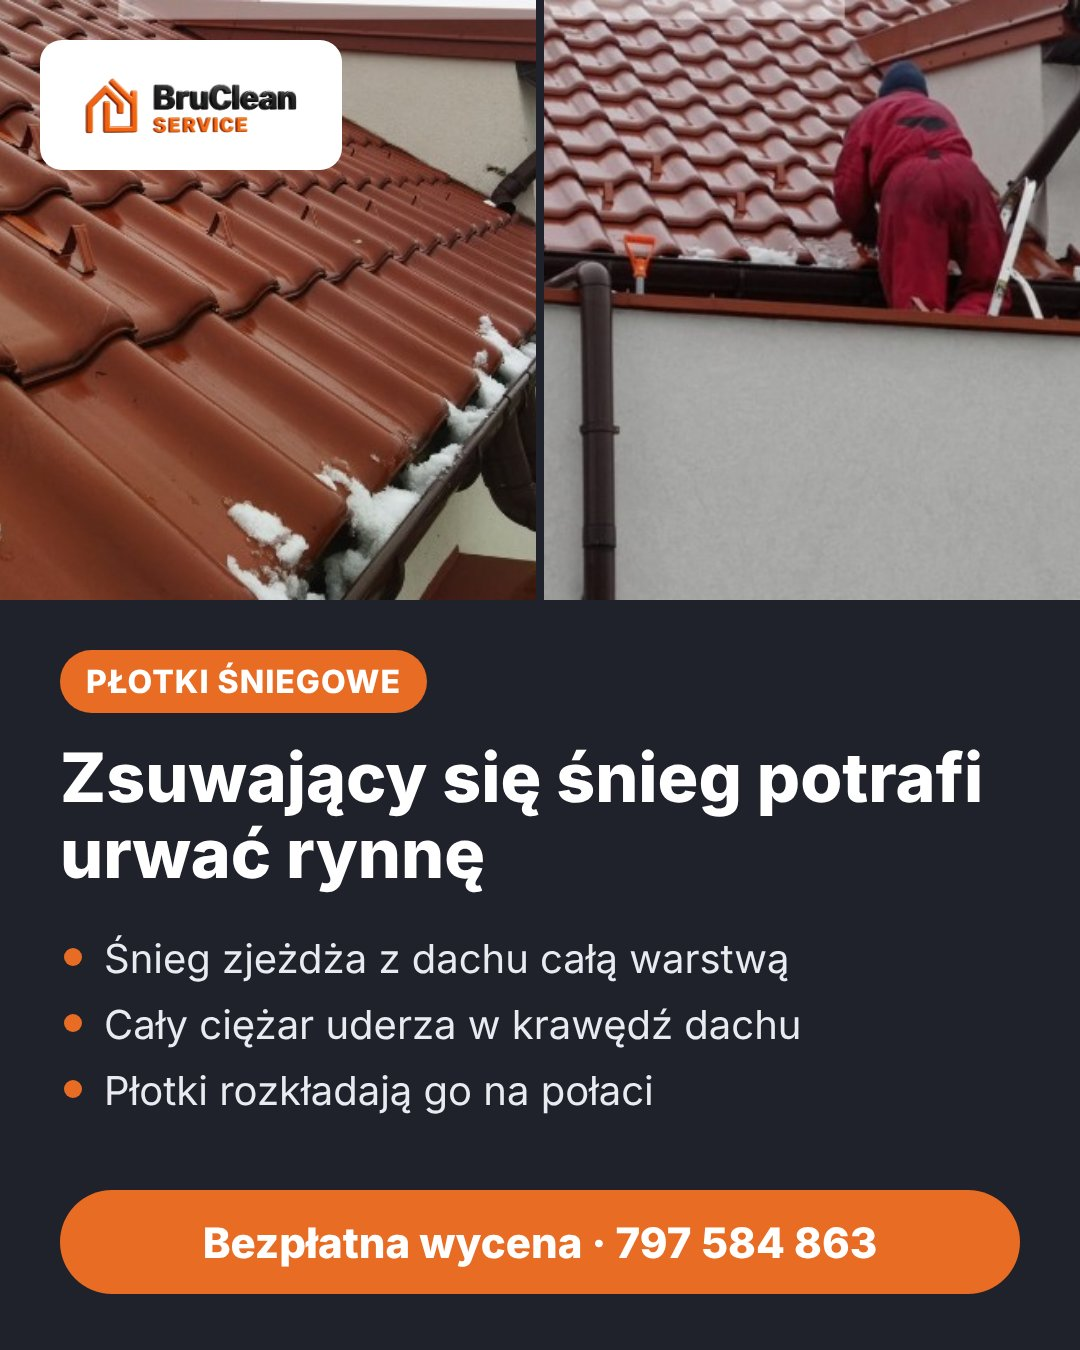
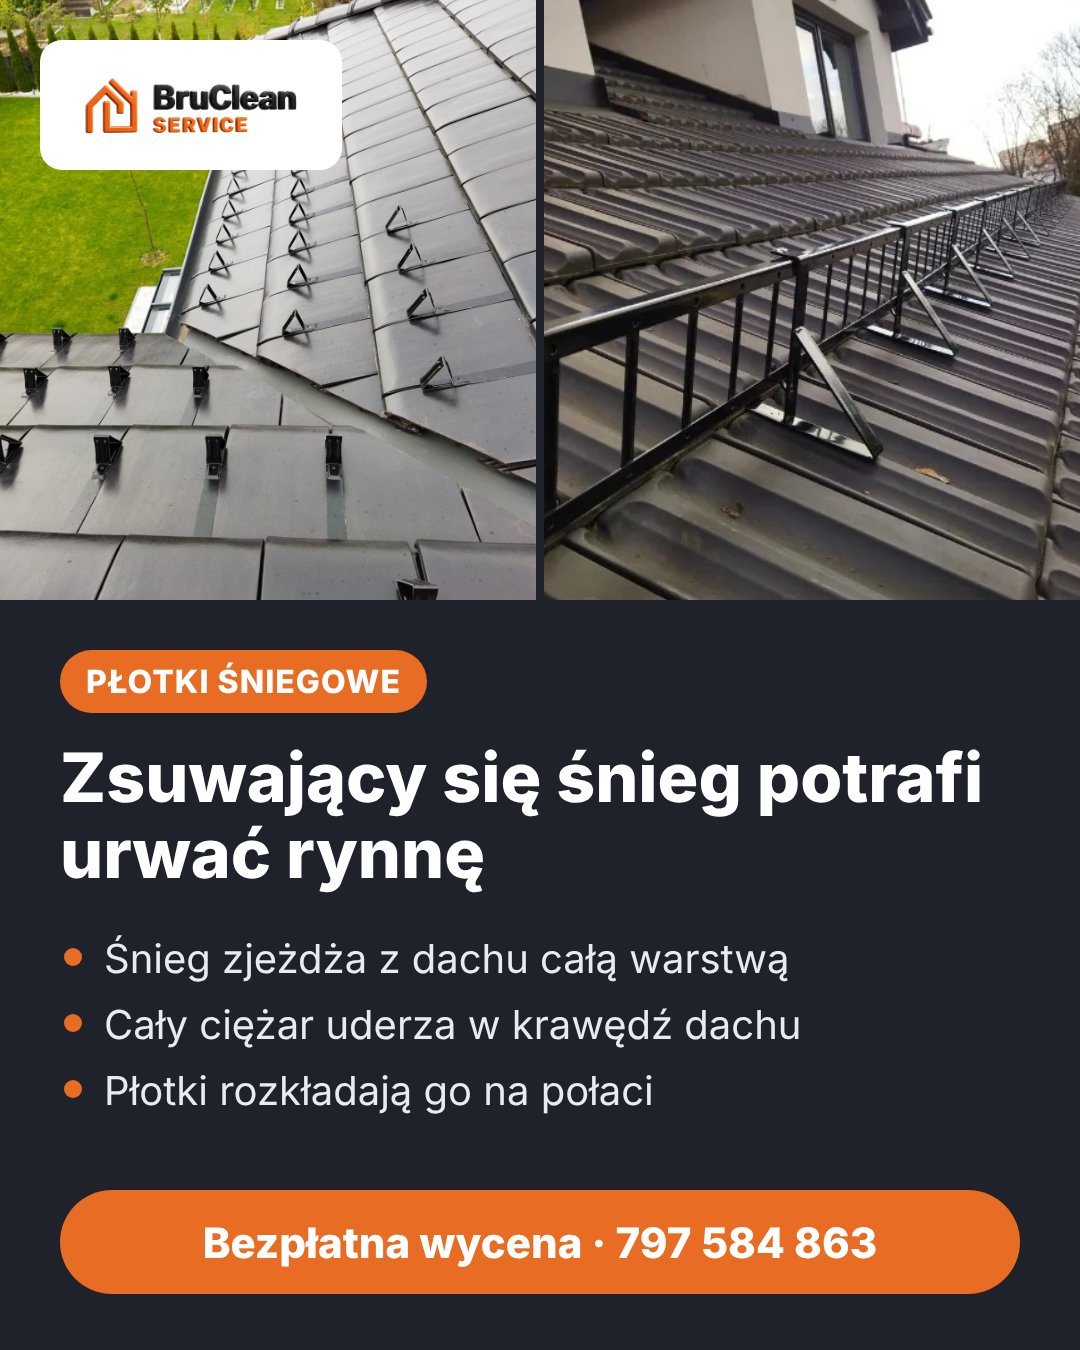
content: realizacje z lokalizacjami, zdjęcia płotków/odśnieżania, nowe zdjęcia w planie 11.2026
- index: 5 nowych realizacji w suwaku przed/po (Skawina, Wieliczka, Kraków x2, Myślenice)
- montaż płotków śniegowych: galeria 4 zdjęć (płotki kratowe + haki)
- plan-2026-11: zdjęcia właściciela zamiast powtórek, grafiki płotków na
  nowych zdjęciach, stories odśnieżanie/sople i kostka przed/po
- wszystkie nowe zdjęcia: LuxeClean -> BruClean Service, tablice zamazane

Claude-Session: https://claude.ai/code/session_01Hyfsw1uErvXBUjWgDrJjqe

diff --git a/index.html b/index.html
@@ -567,6 +567,11 @@ src="https://www.facebook.com/tr?id=1792681042143896&ev=PageView&noscript=1"
                             <button type="button" data-i="3" class="ba-item text-left bg-white border-2 border-gray-200 hover:border-brand-orange/50 rounded-2xl px-4 py-3 flex items-center justify-between gap-3"><span><span class="block font-bold text-brand-dark text-sm">Elewacja domu jednorodzinnego</span><span class="block text-xs text-brand-gray">Elewacja</span></span><i class="fa-solid fa-arrow-right-long text-brand-orange text-xs"></i></button>
                             <button type="button" data-i="4" class="ba-item text-left bg-white border-2 border-gray-200 hover:border-brand-orange/50 rounded-2xl px-4 py-3 flex items-center justify-between gap-3"><span><span class="block font-bold text-brand-dark text-sm">Elewacja budynku usługowego</span><span class="block text-xs text-brand-gray">Elewacja</span></span><i class="fa-solid fa-arrow-right-long text-brand-orange text-xs"></i></button>
                             <button type="button" data-i="5" class="ba-item text-left bg-white border-2 border-gray-200 hover:border-brand-orange/50 rounded-2xl px-4 py-3 flex items-center justify-between gap-3"><span><span class="block font-bold text-brand-dark text-sm">Rynny pod siatką</span><span class="block text-xs text-brand-gray">Rynny</span></span><i class="fa-solid fa-arrow-right-long text-brand-orange text-xs"></i></button>
+                            <button type="button" data-i="6" class="ba-item text-left bg-white border-2 border-gray-200 hover:border-brand-orange/50 rounded-2xl px-4 py-3 flex items-center justify-between gap-3"><span><span class="block font-bold text-brand-dark text-sm">Ścieżka z kostki granitowej przy firmie</span><span class="block text-xs text-brand-gray">Kostka brukowa · Skawina</span></span><i class="fa-solid fa-arrow-right-long text-brand-orange text-xs"></i></button>
+                            <button type="button" data-i="7" class="ba-item text-left bg-white border-2 border-gray-200 hover:border-brand-orange/50 rounded-2xl px-4 py-3 flex items-center justify-between gap-3"><span><span class="block font-bold text-brand-dark text-sm">Ścieżka i podest przy domu</span><span class="block text-xs text-brand-gray">Kostka brukowa · Wieliczka</span></span><i class="fa-solid fa-arrow-right-long text-brand-orange text-xs"></i></button>
+                            <button type="button" data-i="8" class="ba-item text-left bg-white border-2 border-gray-200 hover:border-brand-orange/50 rounded-2xl px-4 py-3 flex items-center justify-between gap-3"><span><span class="block font-bold text-brand-dark text-sm">Chodnik wzdłuż ogrodzenia</span><span class="block text-xs text-brand-gray">Kostka brukowa · Kraków</span></span><i class="fa-solid fa-arrow-right-long text-brand-orange text-xs"></i></button>
+                            <button type="button" data-i="9" class="ba-item text-left bg-white border-2 border-gray-200 hover:border-brand-orange/50 rounded-2xl px-4 py-3 flex items-center justify-between gap-3"><span><span class="block font-bold text-brand-dark text-sm">Elewacja budynku wielorodzinnego</span><span class="block text-xs text-brand-gray">Elewacja · Kraków</span></span><i class="fa-solid fa-arrow-right-long text-brand-orange text-xs"></i></button>
+                            <button type="button" data-i="10" class="ba-item text-left bg-white border-2 border-gray-200 hover:border-brand-orange/50 rounded-2xl px-4 py-3 flex items-center justify-between gap-3"><span><span class="block font-bold text-brand-dark text-sm">Elewacja bloku wspólnoty mieszkaniowej</span><span class="block text-xs text-brand-gray">Elewacja · Myślenice</span></span><i class="fa-solid fa-arrow-right-long text-brand-orange text-xs"></i></button>
                         </div>
                     </div>
                 </div>
@@ -932,7 +937,12 @@ src="https://www.facebook.com/tr?id=1792681042143896&ev=PageView&noscript=1"
                 { img: 'taras-plyty', title: 'Taras z płyt betonowych', cat: 'Płyty tarasowe', place: 'Małopolska', desc: 'Zielony, śliski nalot na płytach. Po myciu taras jest czysty i bezpieczniejszy na deszczu.' },
                 { img: 'elewacja-dom', title: 'Elewacja domu jednorodzinnego', cat: 'Elewacja', place: 'Małopolska', desc: 'Zszarzały tynk po latach. Mycie przywróciło jasny kolor bez malowania.' },
                 { img: 'elewacja-budynek', title: 'Elewacja budynku usługowego', cat: 'Elewacja', place: 'Małopolska', desc: 'Zacieki i brud na tynku budynku usługowego. Po myciu tynk jest jasny i równy.' },
-                { img: 'rynny', title: 'Rynny pod siatką', cat: 'Rynny', place: 'Małopolska', desc: 'Liście i gałęzie w rynnach pod siatką ochronną. Po czyszczeniu woda znowu swobodnie spływa.' }
+                { img: 'rynny', title: 'Rynny pod siatką', cat: 'Rynny', place: 'Małopolska', desc: 'Liście i gałęzie w rynnach pod siatką ochronną. Po czyszczeniu woda znowu swobodnie spływa.' },
+                { img: 'kostka-granit-firma', title: 'Ścieżka z kostki granitowej przy firmie', cat: 'Kostka brukowa', place: 'Skawina', desc: 'Mech i trawa w fugach na całej ścieżce. Po myciu kostka jest jasna, a fugi czyste.' },
+                { img: 'kostka-sciezka-dom', title: 'Ścieżka i podest przy domu', cat: 'Kostka brukowa', place: 'Wieliczka', desc: 'Ciemny nalot i chwasty przy krawędziach. Po myciu wróciły ciepłe kolory kostki.' },
+                { img: 'chodnik-ogrodzenie', title: 'Chodnik wzdłuż ogrodzenia', cat: 'Kostka brukowa', place: 'Kraków', desc: 'Mech w fugach i ciemna, zabrudzona kostka. Po myciu chodnik odzyskał jasny, ceglasty kolor.' },
+                { img: 'elewacja-wielorodzinny', title: 'Elewacja budynku wielorodzinnego', cat: 'Elewacja', place: 'Kraków', desc: 'Zielony nalot i zacieki pod balkonami. Elewację umyliśmy w październiku 2026 r.' },
+                { img: 'elewacja-wspolnota', title: 'Elewacja bloku wspólnoty mieszkaniowej', cat: 'Elewacja', place: 'Myślenice', desc: 'Ciemne zacieki pod oknami na kilku kondygnacjach. Mycie z liny, bez rusztowania.' }
             ];
             const range = document.getElementById('ba-range');
             const wrap = document.getElementById('ba-before-wrap');

diff --git a/uslugi/montaz-plotkow-sniegowych.html b/uslugi/montaz-plotkow-sniegowych.html
@@ -409,9 +409,12 @@ src="https://www.facebook.com/tr?id=1792681042143896&ev=PageView&noscript=1"
 
             <div class="space-y-6">
                 <h2 class="text-2xl sm:text-3xl font-extrabold text-brand-dark tracking-tight">Nasze realizacje</h2>
+                <p class="text-brand-gray leading-relaxed max-w-3xl">Montujemy zarówno <span class="font-bold text-brand-dark">płotki kratowe</span>, które tworzą ciągłą barierę wzdłuż dachu, jak i <span class="font-bold text-brand-dark">haki śniegowe</span> rozmieszczone na połaci. Poniżej zdjęcia z naszych realizacji.</p>
                 <div class="grid sm:grid-cols-2 gap-6">
-                    <img src="../images/uslugi/plotki/montaz.webp" alt="Montaż płotków śniegowych na dachu z dachówki – BruClean Service" width="488" height="307" loading="lazy" decoding="async" class="h-56 sm:h-72 rounded-2xl w-full object-cover">
-                    <img src="../images/uslugi/plotki/haki.webp" alt="Haki śniegowe zamontowane na dachówce nad rynną" width="494" height="368" loading="lazy" decoding="async" class="h-56 sm:h-72 rounded-2xl w-full object-cover">
+                    <img src="../images/uslugi/plotki/kratowe.webp" alt="Płotki śniegowe kratowe zamontowane na dachu z dachówki – BruClean Service" width="428" height="722" loading="lazy" decoding="async" class="h-56 sm:h-72 rounded-2xl w-full object-cover">
+                    <img src="../images/uslugi/plotki/haki-czarna.webp" alt="Haki śniegowe na dachu z czarnej dachówki ceramicznej" width="900" height="1200" loading="lazy" decoding="async" class="h-56 sm:h-72 rounded-2xl w-full object-cover">
+                    <img src="../images/uslugi/plotki/kratowe-montaz.webp" alt="Montaż płotka śniegowego – mocowanie do łat pod dachówką" width="434" height="530" loading="lazy" decoding="async" class="h-56 sm:h-72 rounded-2xl w-full object-cover">
+                    <img src="../images/uslugi/plotki/montaz.webp" alt="Montaż haków śniegowych na dachu z dachówki – BruClean Service" width="488" height="307" loading="lazy" decoding="async" class="h-56 sm:h-72 rounded-2xl w-full object-cover">
                 </div>
             </div>
 

diff --git a/DEVLOG.md b/DEVLOG.md
@@ -67,3 +67,10 @@
 - `sitemap.xml`, `llms.txt`, `README.md` обновлены.
 - Проверено: все классы есть в `css/tailwind.min.css`, иконки — в `fontawesome-subset.css` (снежинки там нет → `fa-shield-halved`), JSON-LD парсится, локальные ссылки целы; Playwright 1440 и 390 px — без ошибок и горизонтального скролла.
 - TODO вне репо: добавить услугу в Google Business Profile (список на главной подписан как совпадающий с GBP).
+
+### Realizacje + nowe zdjęcia właściciela (26.10.2026, wieczór)
+- `index.html` → suwak przed/po: +5 realizacji (`images/realizacje/ba/*`, 800×800 webp). Lokalizacje wybrane z listy obszaru działania na stronie (decyzja właściciela): Skawina, Wieliczka, Kraków ×2, Myślenice.
+- `uslugi/montaz-plotkow-sniegowych.html` → galeria 4 zdjęć, płotki kratowe + haki śniegowe.
+- `images/social/plan-2026-11.json` → zdjęcia właściciela zamiast powtórek (03, 10, 11, 13, 17, 18, 29.11), grafiki płotków na ostrzejszych zdjęciach, 2 nowe stories (odśnieżanie/sople, kostka przed/po).
+- Wszystkie zdjęcia: logo LuxeClean → BruClean Service; kolaże z półprzezroczystym znakiem wodnym → tylko czyste fragmenty; zamazane tablice rejestracyjne i tablica wspólnoty; bez metadanych.
+- Sprawdzone: walidator planu (30 dni, rotacja, głos), Playwright 1440/390 — wszystkie 11 pozycji suwaka ładują zdjęcia, bez błędów i poziomego scrolla.
